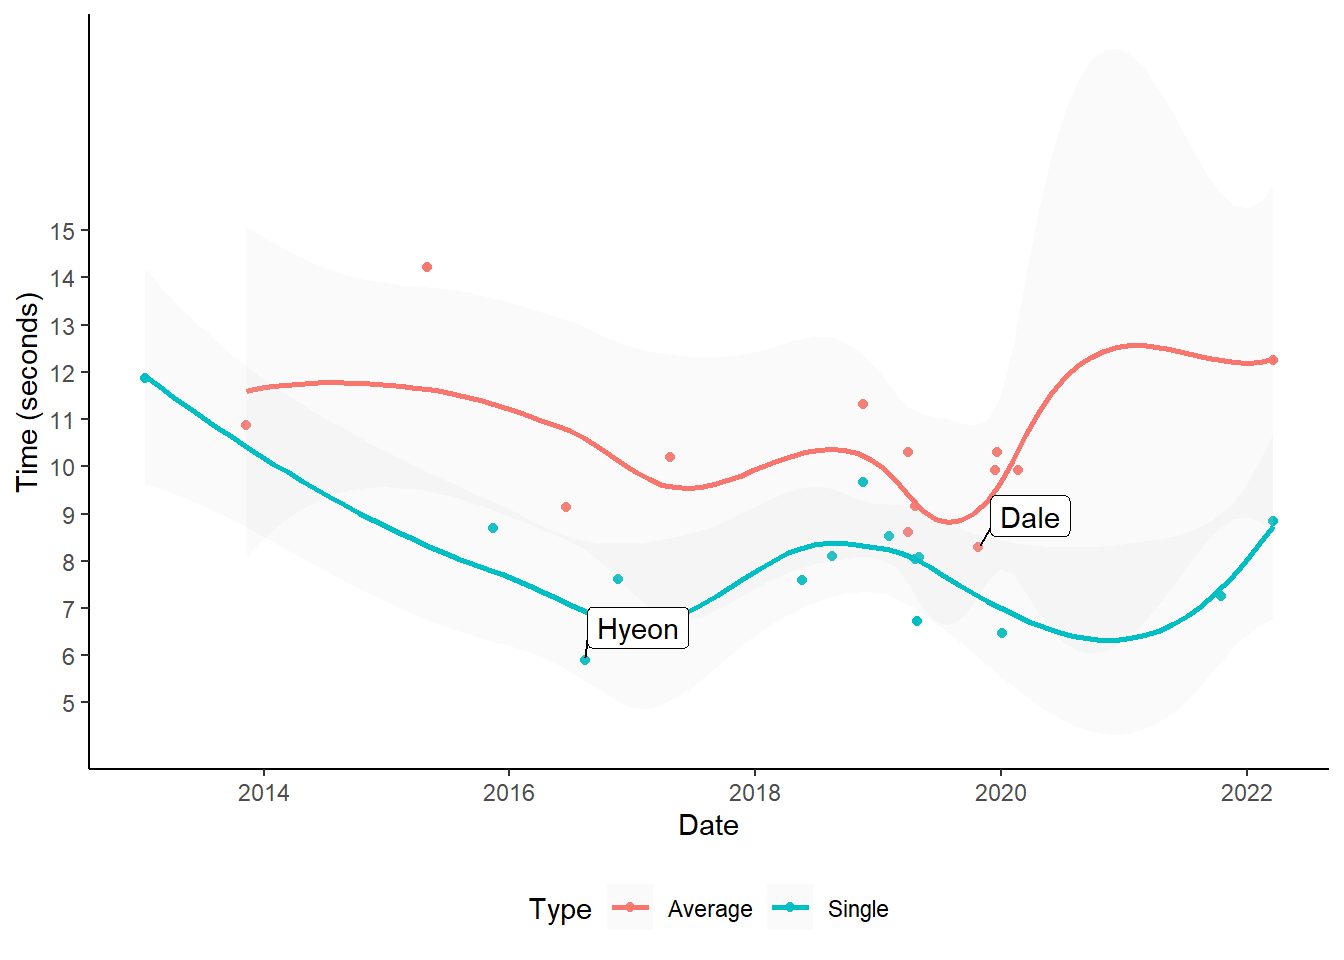
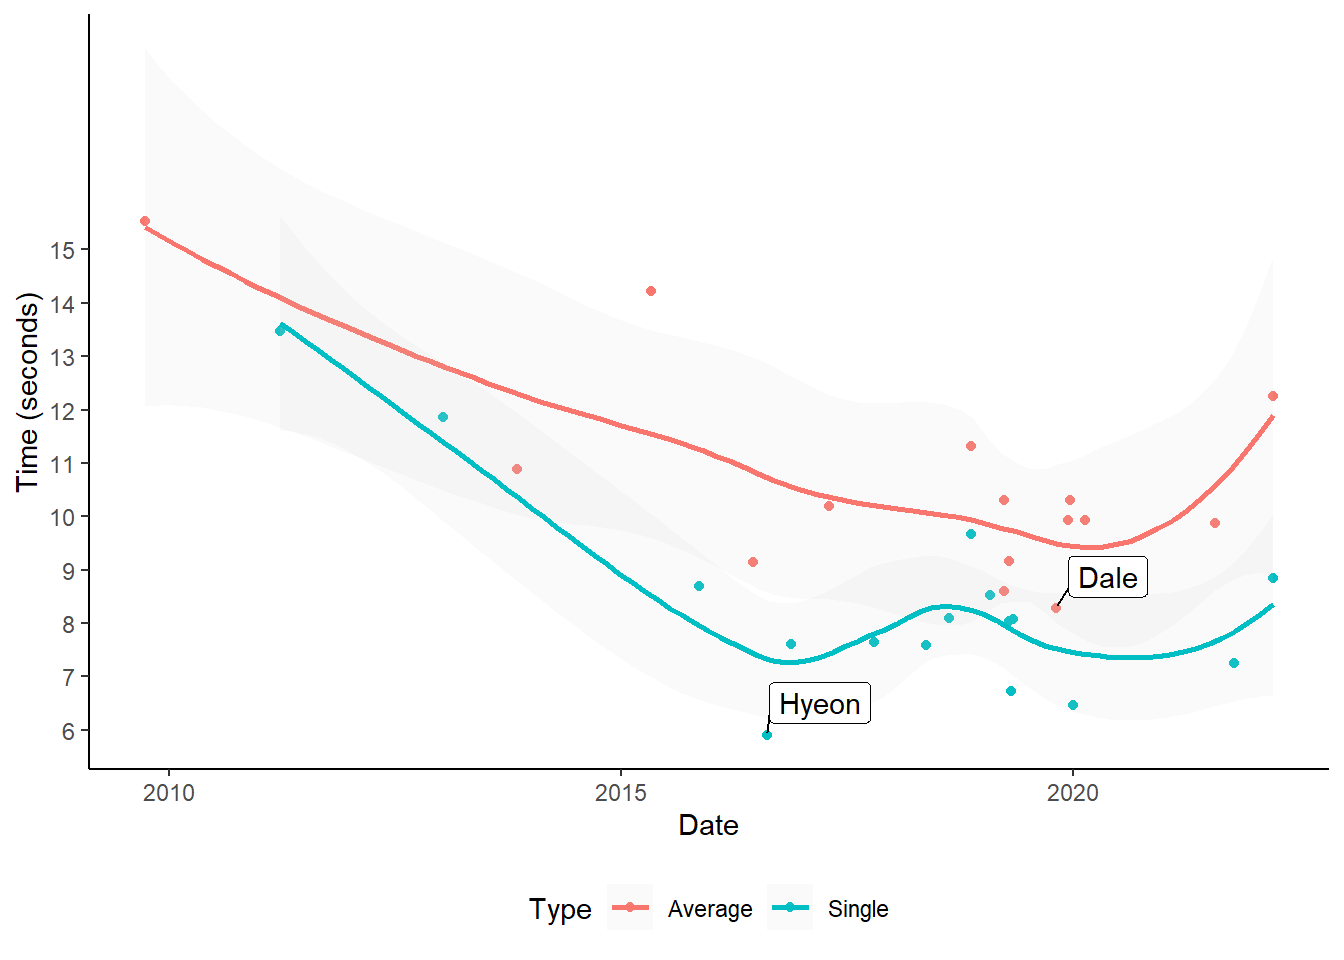
Added top ZZers

diff --git a/docs/01_ZZ.html b/docs/01_ZZ.html
@@ -120,7 +120,7 @@
 <p>This information is based on competition results owned and maintained by the World Cube Assocation, published at <a href="https://worldcubeassociation.org/results" class="uri">https://worldcubeassociation.org/results</a> as of April 11, 2022.</p>
 <p><img src="_main_files/figure-html/unnamed-chunk-16-1.png" width="672" /></p>
 <div id="htmlwidget-14364aa3ebedfbfc52d8" class="reactable html-widget" style="width:auto;height:auto;"></div>
-<script type="application/json" data-for="htmlwidget-14364aa3ebedfbfc52d8">{"x":{"tag":{"name":"Reactable","attribs":{"data":{"Name":["Hyeon Kyo Kyoung (경현교)","Andy Huang","Dale Stephen M. Palmares","Simon Kalhofer","Phil Yu","Tiffany Chien","Joseph Tudor","Caleb Hoover","Andrew Nathenson","Nathaniel Gee","Eli Lifland","Jake Williams","Justin Taylor","Matt DiPalma"],"WCA ID":["2013KYOU01","2013HUAN07","2016STEP05","2012KALH01","2010YUPH01","2012CHIE01","2016TUDO02","2016HOOV01","2011NATH02","2016GEEN01","2012LIFL01","2022WILL04","2017TAYL02","2011DIPA01"],"Single":[5.91,6.47,6.72,7.25,7.59,7.61,8.04,8.08,8.1,8.52,8.7,8.85,9.66,11.86],"Average":["NA",9.14,8.29,8.6,10.19,9.17,9.93,9.93,10.31,10.31,10.88,12.26,11.32,14.23]},"columns":[{"accessor":"Name","name":"Name","type":"character"},{"accessor":"WCA ID","name":"WCA ID","type":"character"},{"accessor":"Single","name":"Single","type":"numeric"},{"accessor":"Average","name":"Average","type":"numeric"}],"searchable":true,"defaultPageSize":100,"paginationType":"numbers","showPageInfo":true,"minRows":1,"dataKey":"d7752e51eb4d6bb931ffb5132a40e46b","key":"d7752e51eb4d6bb931ffb5132a40e46b"},"children":[]},"class":"reactR_markup"},"evals":[],"jsHooks":[]}</script>
+<script type="application/json" data-for="htmlwidget-14364aa3ebedfbfc52d8">{"x":{"tag":{"name":"Reactable","attribs":{"data":{"Name":["Hyeon Kyo Kyoung (경현교)","Andy Huang","Dale Stephen M. Palmares","Simon Kalhofer","Phil Yu","Tiffany Chien","Sebastiano Tronto","Joseph Tudor","Caleb Hoover","Andrew Nathenson","Nathaniel Gee","Eli Lifland","Jake Williams","Justin Taylor","Matt DiPalma","Zbigniew Zborowski"],"WCA ID":["2013KYOU01","2013HUAN07","2016STEP05","2012KALH01","2010YUPH01","2012CHIE01","2011TRON02","2016TUDO02","2016HOOV01","2011NATH02","2016GEEN01","2012LIFL01","2022WILL04","2017TAYL02","2011DIPA01","2003ZBOR02"],"Single":[5.91,6.47,6.72,7.25,7.59,7.61,7.64,8.04,8.08,8.1,8.52,8.7,8.85,9.66,11.86,13.47],"Average":["NA",9.14,8.29,8.6,10.19,9.17,9.87,9.93,9.93,10.31,10.31,10.88,12.26,11.32,14.23,15.53]},"columns":[{"accessor":"Name","name":"Name","type":"character"},{"accessor":"WCA ID","name":"WCA ID","type":"character"},{"accessor":"Single","name":"Single","type":"numeric"},{"accessor":"Average","name":"Average","type":"numeric"}],"searchable":true,"defaultPageSize":100,"paginationType":"numbers","showPageInfo":true,"minRows":1,"dataKey":"efc992326dad18fc854676fcd19ac665","key":"efc992326dad18fc854676fcd19ac665"},"children":[]},"class":"reactR_markup"},"evals":[],"jsHooks":[]}</script>
 
 </div>
 
